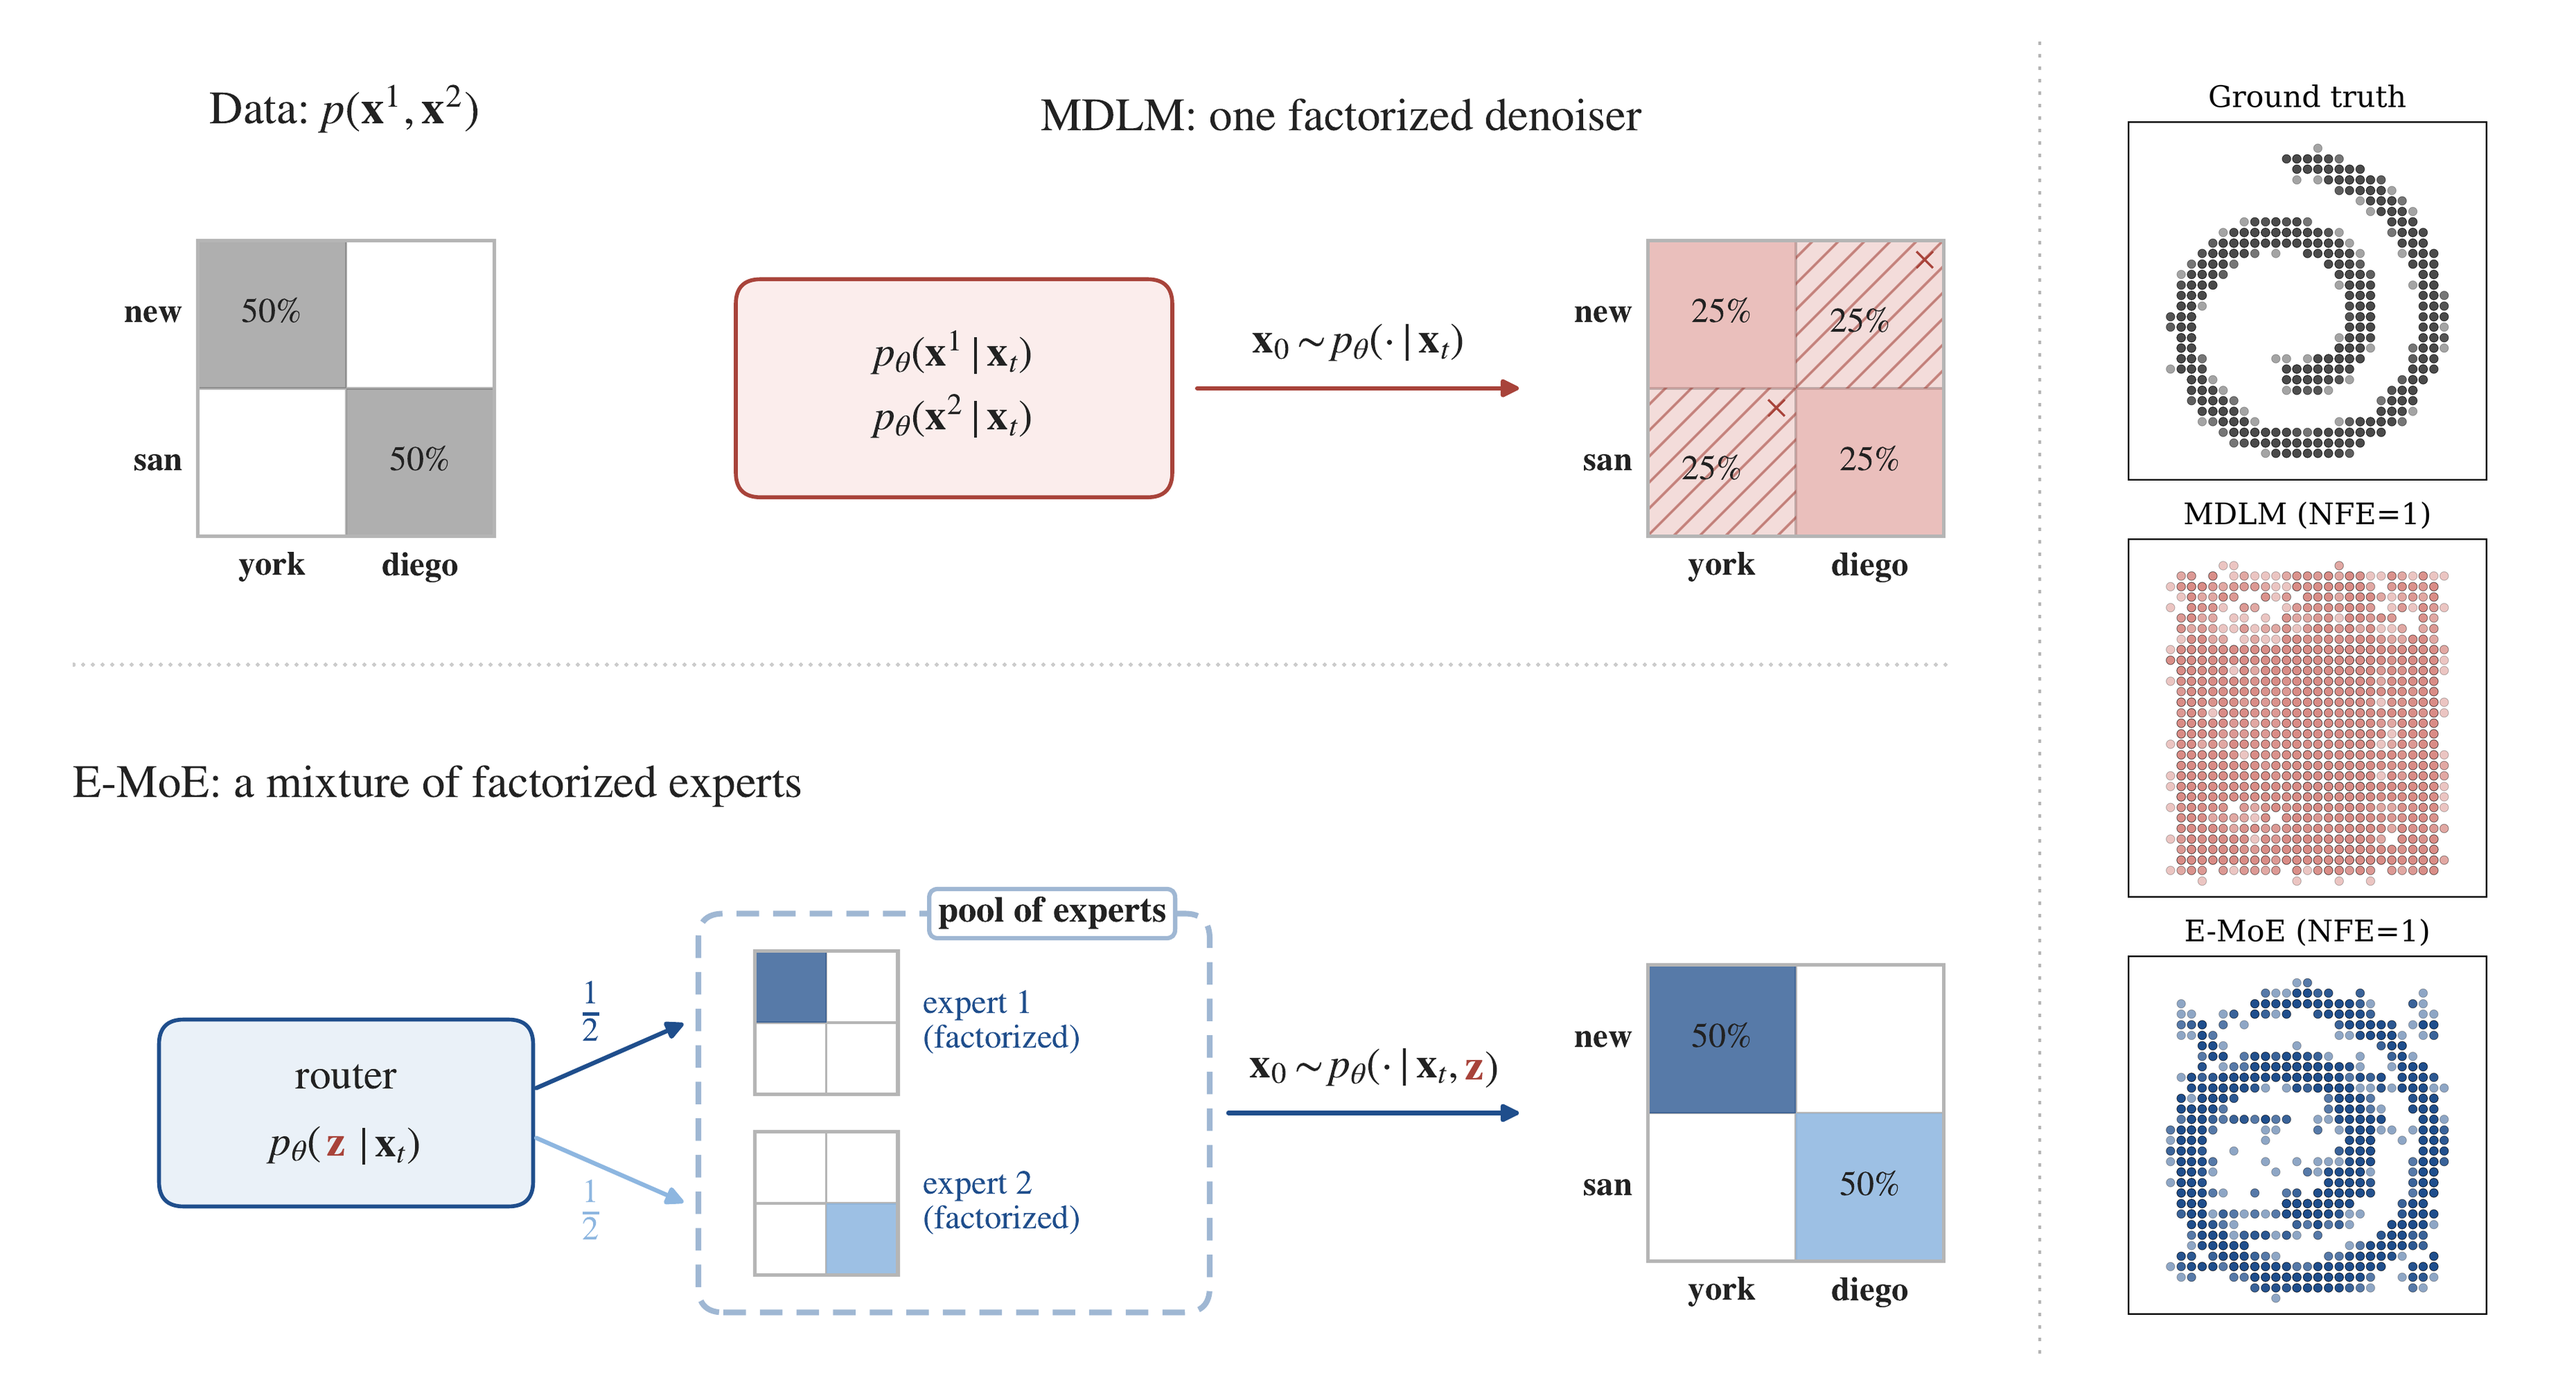
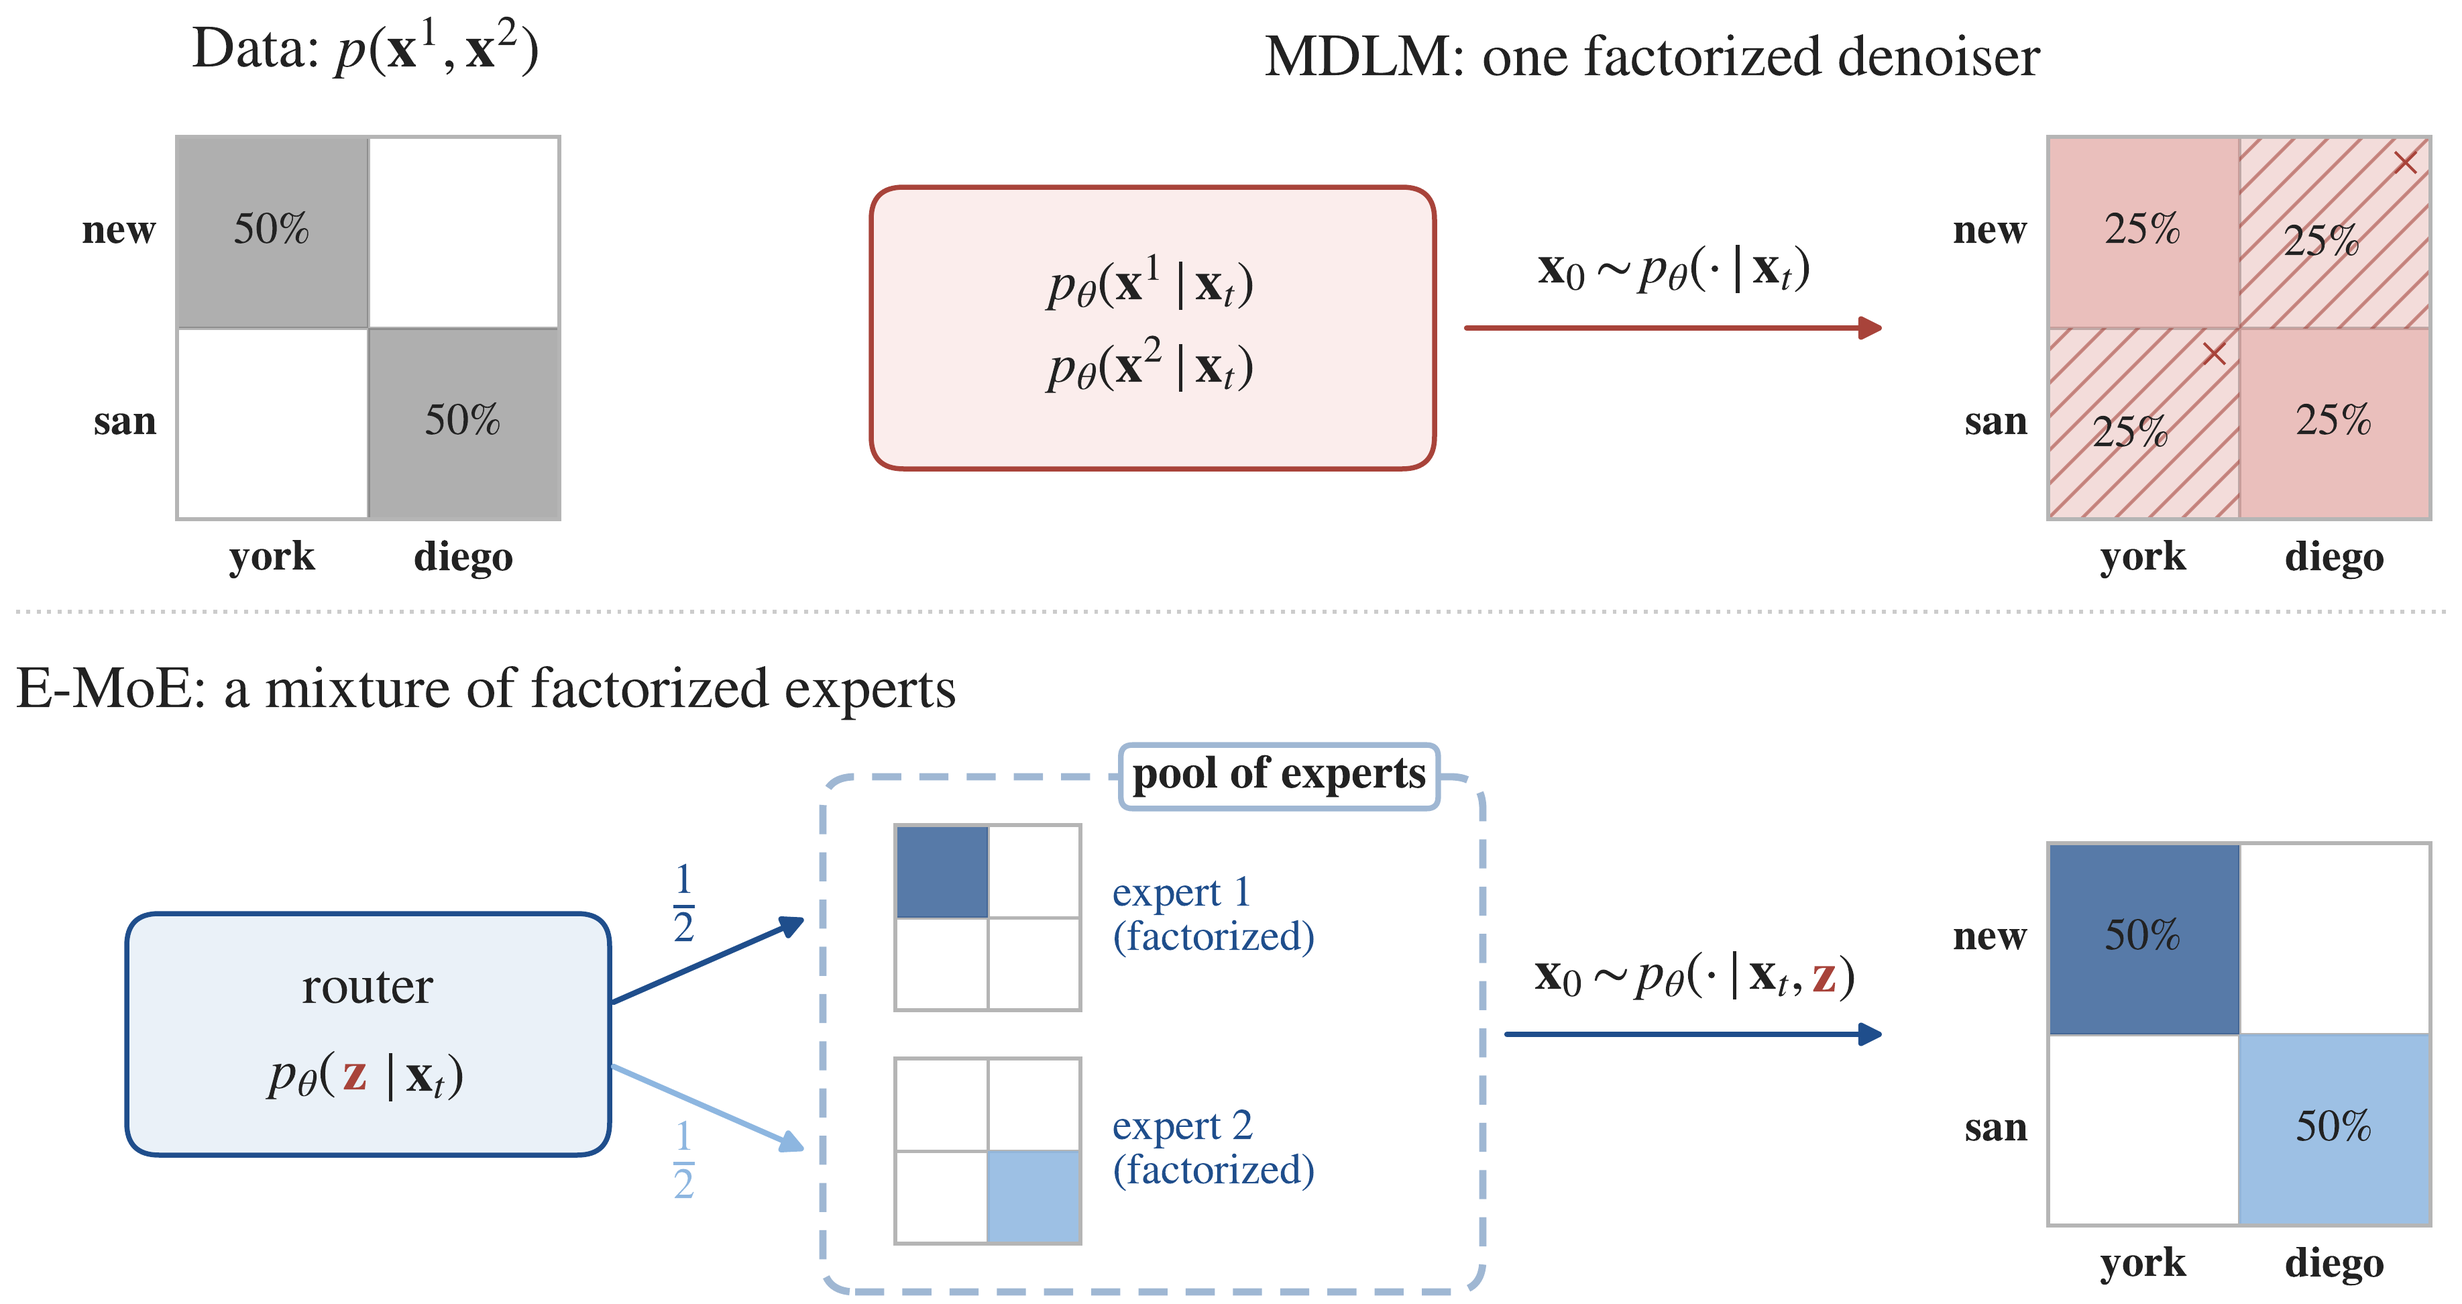
Code release!

diff --git a/README.md b/README.md
@@ -26,7 +26,7 @@
   <img src="assets/method.png" width="100%">
 </p>
 
-**Overview of E-MoE.** A factorized denoiser (MDLM) samples tokens independently and puts mass on spurious pairs such as *new diego*. E-MoE uses MoE routing decisions as a discrete latent **z**: each expert is factorized, but the mixture over routes recovers the joint distribution. *Right:* one-step (NFE=1) samples on the Swiss-roll toy distribution.
+**Overview of E-MoE.** A factorized denoiser (MDLM) samples tokens independently and puts mass on spurious pairs such as *new diego*. E-MoE uses MoE routing decisions as a discrete latent **z**: each expert is factorized, but the mixture over routes recovers the joint distribution.
 
 ## Repository Structure
 
